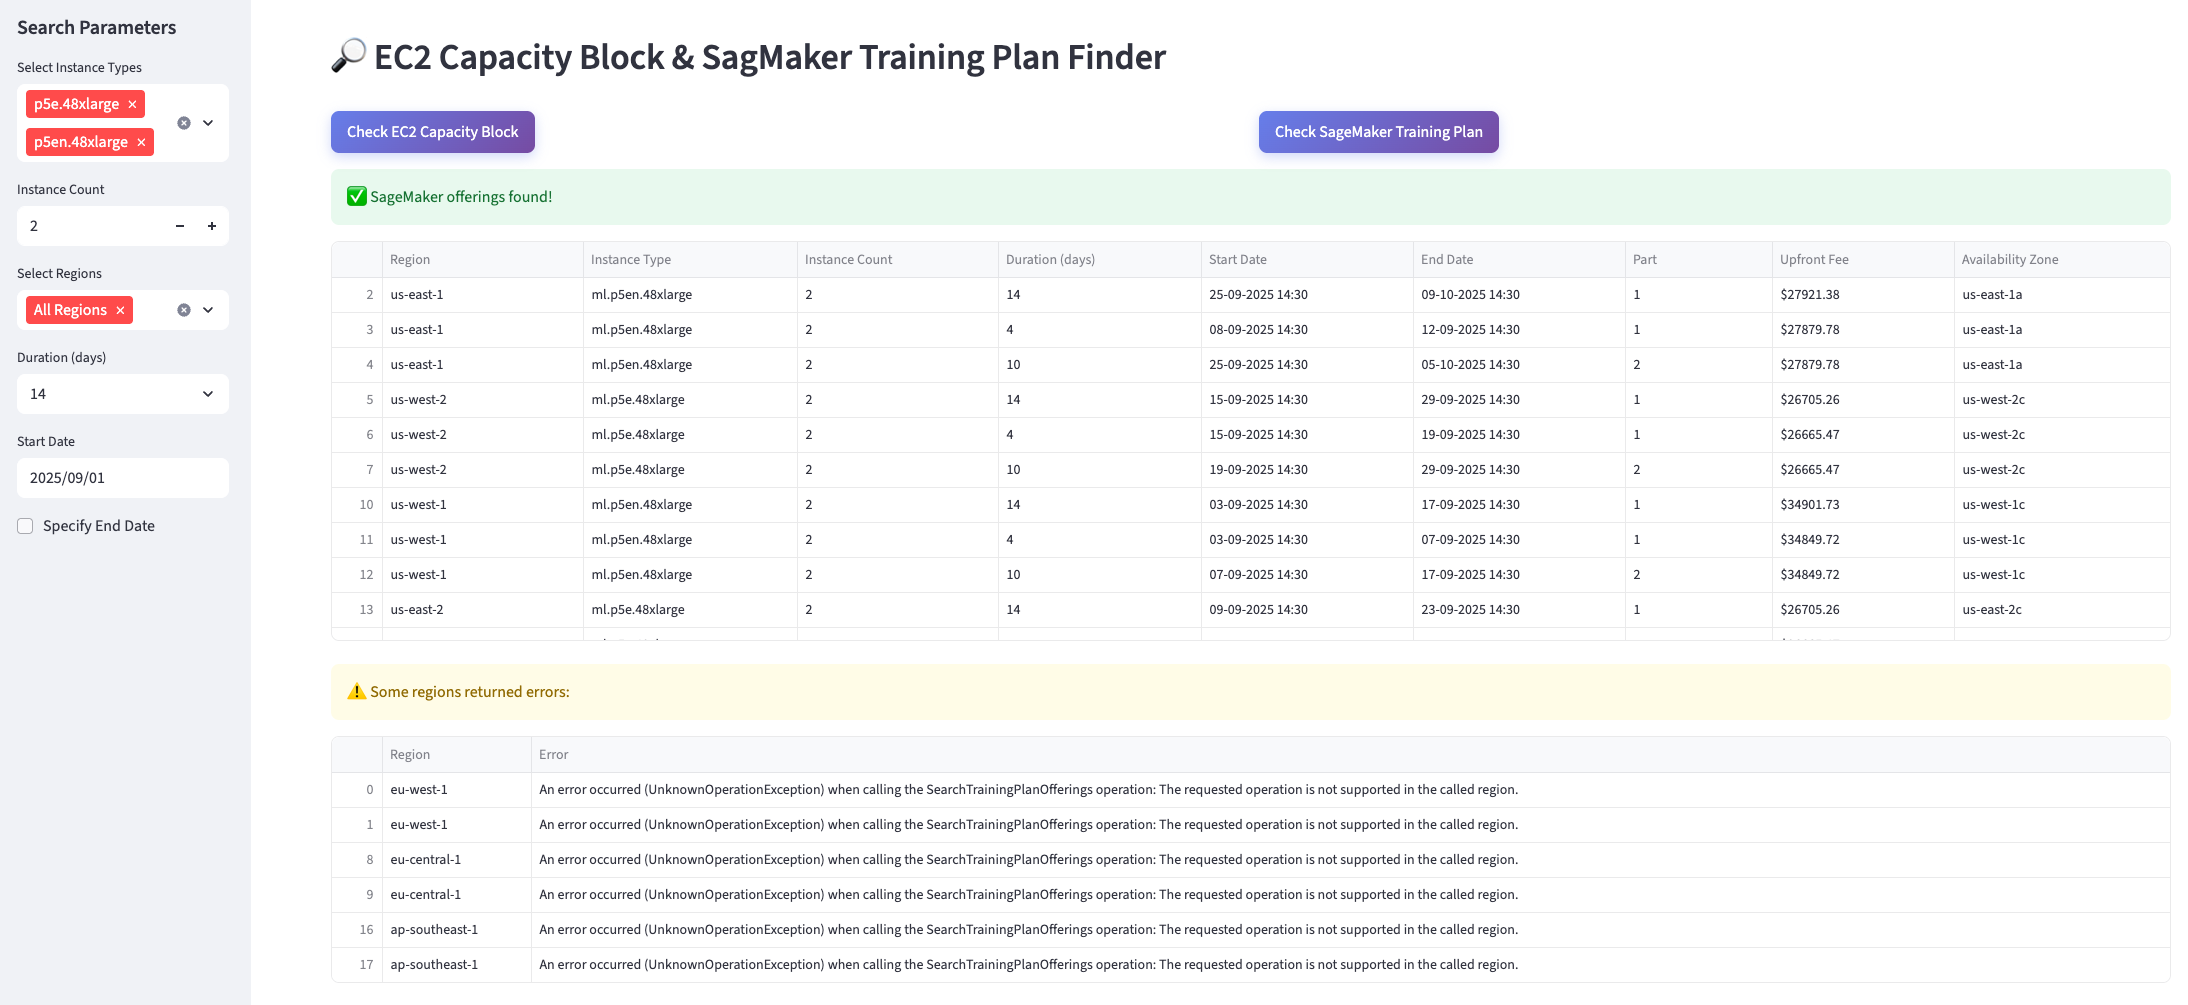
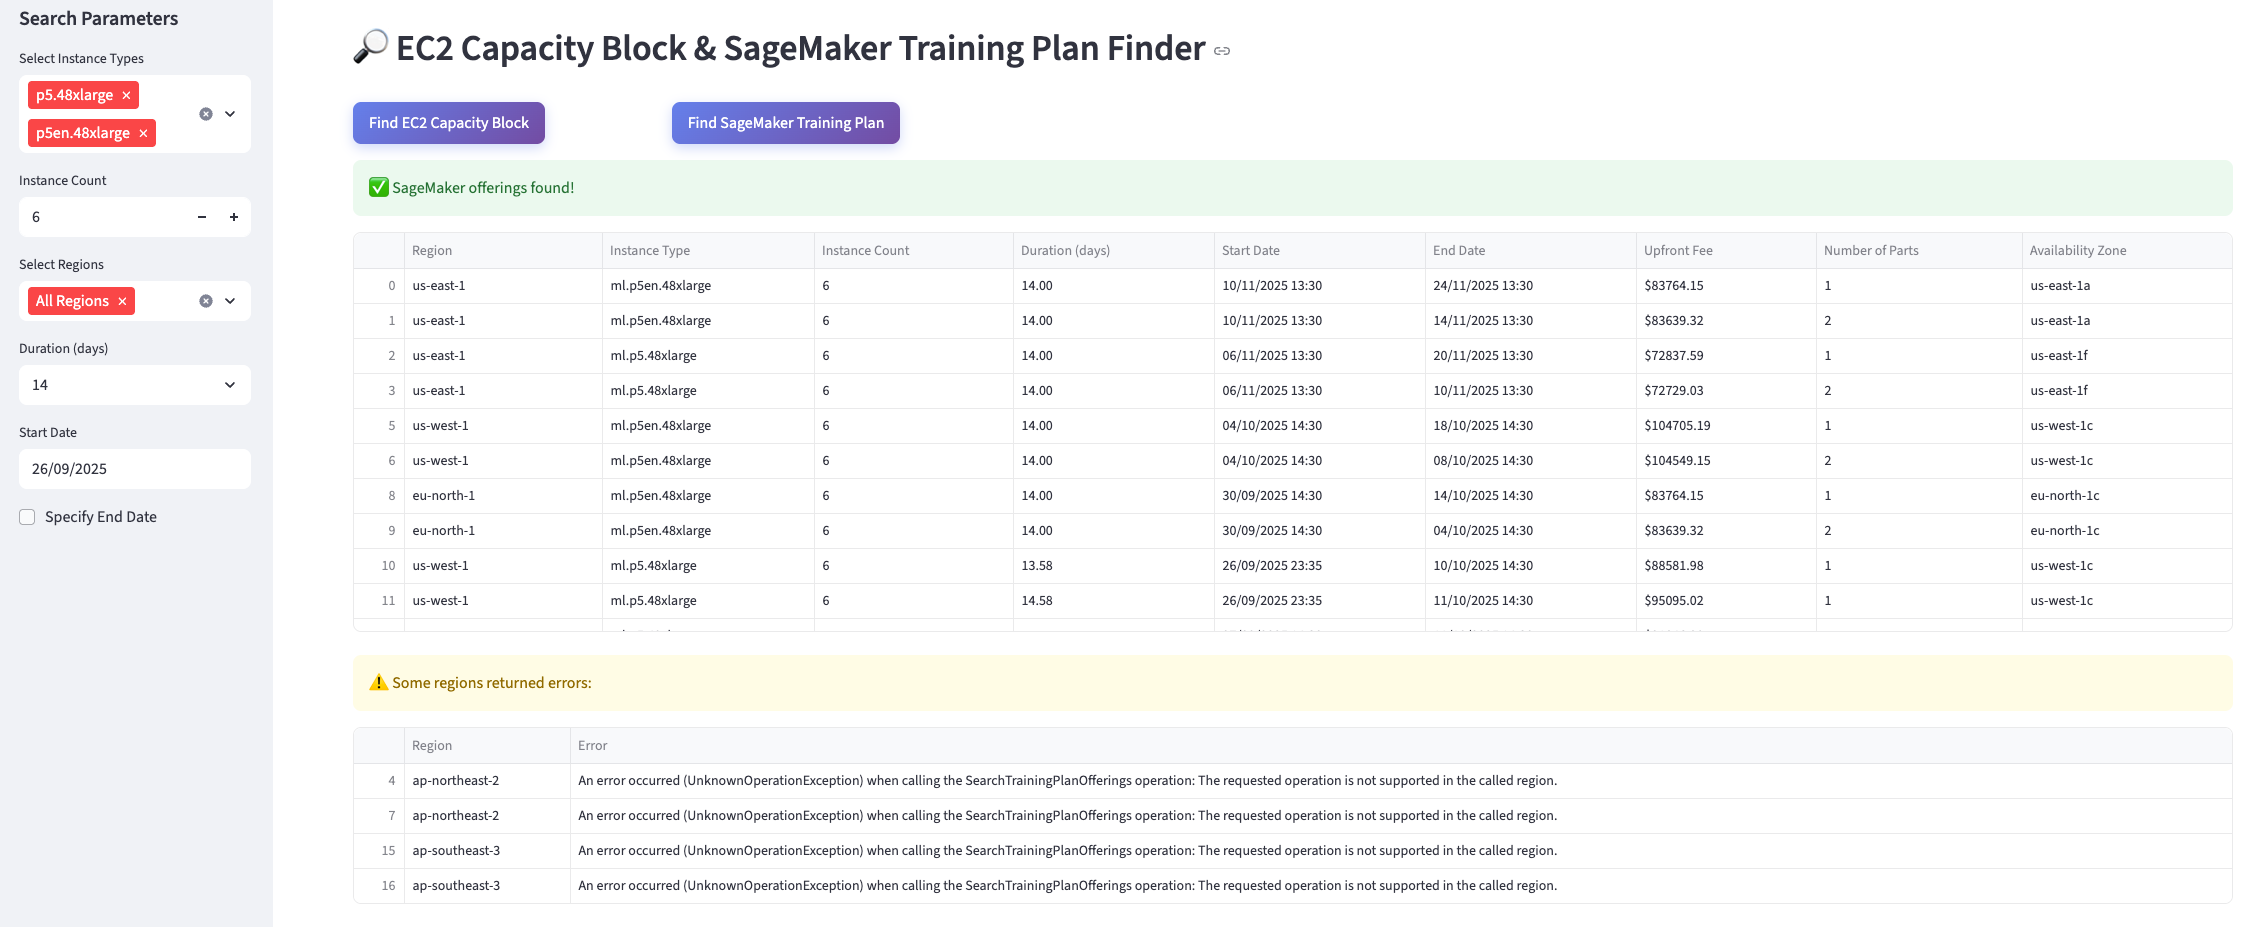
Improve UI and data display for capacity finder
- Fix typo: SagMaker → SageMaker in page title and header
- Standardize date format to DD/MM/YYYY for date inputs
- Remove unused regions (eu-west-1, eu-central-1, ap-southeast-1)
- Enhance data display with upfront fee, parts count, and availability zone
- Replace individual part listings with aggregated offering view
- Add API response logging for better debugging
- Update dataframe display to use 'stretch' width
- Update app screenshot to reflect UI changes

diff --git a/app.py b/app.py
@@ -6,8 +6,8 @@ import concurrent.futures
 import inspect
 
 # ----------------- Config -----------------
-st.set_page_config(page_title="EC2 Capacity Block & SagMaker Training Plan Finder", layout="wide")
-st.header("🔎 EC2 Capacity Block & SagMaker Training Plan Finder")
+st.set_page_config(page_title="EC2 Capacity Block & SageMaker Training Plan Finder", layout="wide")
+st.header("🔎 EC2 Capacity Block & SageMaker Training Plan Finder")
 
 # ----------------- Styling -----------------
 st.markdown("""
@@ -47,10 +47,10 @@ INSTANCE_TYPES = [
 AWS_REGIONS = [
     "us-east-1","us-east-2",
     "us-west-1","us-west-2",
-    "eu-north-1","eu-west-1","eu-west-2","eu-central-1",
+    "eu-north-1","eu-west-2",
     "ap-northeast-1","ap-northeast-2",
     "ap-south-1",
-    "ap-southeast-1","ap-southeast-2","ap-southeast-3", "ap-southeast-4",
+    "ap-southeast-2","ap-southeast-3", "ap-southeast-4",
     "sa-east-1"
 ]
 
@@ -99,14 +99,13 @@ region_options = ["All Regions"] + AWS_REGIONS
 selected_regions = st.sidebar.multiselect("Select Regions", region_options, default=["All Regions"])
 
 duration_days = st.sidebar.selectbox("Duration (days)", VALID_DURATIONS, index=6)
-start_date = st.sidebar.date_input("Start Date", datetime.today())
+start_date = st.sidebar.date_input("Start Date", datetime.today(), format="DD/MM/YYYY")
 use_end_date = st.sidebar.checkbox("Specify End Date", value=False)
-end_date = st.sidebar.date_input("End Date", datetime.today() + timedelta(days=14)) if use_end_date else None
+end_date = st.sidebar.date_input("End Date", datetime.today() + timedelta(days=14), format="DD/MM/YYYY") if use_end_date else None
 
 # ----------------- Validation -----------------
 if use_end_date and start_date > end_date:
     st.sidebar.error("Start date must be before end date.")
-
 
 # ----------------- AWS EC2 Scan -----------------
 def scan_region(region, itype, count, duration, fallback=False):
@@ -124,19 +123,26 @@ def scan_region(region, itype, count, duration, fallback=False):
         log_msg(f"EC2 params: {params}", region, itype)
 
         resp = ec2.describe_capacity_block_offerings(**params)
+        log_msg(f"EC2 API Response: {resp}", region, itype)
         offerings = resp.get("CapacityBlockOfferings", [])
         results = []
         for o in offerings:
             start_dt, end_dt = parse_iso_date(o["StartDate"]), parse_iso_date(o["EndDate"])
-            for i, part in enumerate(o.get("ReservedCapacityOfferings", [{}]) or [{}]):
-                results.append({
-                    "Region": region, "Instance Type": itype,
-                    "Instance Count": str(o.get("InstanceCount", 0)),
-                    "Duration (days)": str(o["CapacityBlockDurationHours"] // 24),
-                    "Start Date": start_dt.strftime("%d-%m-%Y %H:%M"),
-                    "End Date": end_dt.strftime("%d-%m-%Y %H:%M"),
-                    "Part": str(i+1)
-                })
+            upfront_fee = f"${o.get('UpfrontFee', '0')}"
+            duration_hours = o["CapacityBlockDurationHours"]
+            reserved_offerings = o.get("ReservedCapacityOfferings", [{}]) or [{}]
+            parts_count = len(reserved_offerings)
+            
+            results.append({
+                "Region": region, "Instance Type": itype,
+                "Instance Count": str(o.get("InstanceCount", 0)),
+                "Duration (days)": f"{duration_hours / 24:.2f}",
+                "Start Date": start_dt.strftime("%d/%m/%Y %H:%M"),
+                "End Date": end_dt.strftime("%d/%m/%Y %H:%M"),
+                "Upfront Fee": upfront_fee,
+                "Number of Parts": str(parts_count),
+                "Availability Zone": o.get("AvailabilityZone", "N/A")
+            })
         return results
     except Exception as e:
         return [{"Region": region, "Error": str(e)}]
@@ -157,19 +163,27 @@ def scan_sagemaker_region(region, itype, count, duration):
         log_msg(f"SageMaker params: {params}", region, itype)
 
         resp = sm.search_training_plan_offerings(**params)
+        log_msg(f"SageMaker API Response: {resp}", region, itype)
         offerings = resp.get("TrainingPlanOfferings", [])
         results = []
         for o in offerings:
-            for i, r in enumerate(o.get("ReservedCapacityOfferings", [])):
+            upfront_fee = f"${o.get('UpfrontFee','0')}"
+            reserved_offerings = o.get("ReservedCapacityOfferings", [])
+            parts_count = len(reserved_offerings)
+            duration_hours = o.get("DurationHours", 0)
+            
+            if reserved_offerings:
+                r = reserved_offerings[0]  # Use first offering for details
                 start_dt, end_dt = parse_iso_date(r.get("StartTime")), parse_iso_date(r.get("EndTime"))
+                instance_type_clean = r.get("InstanceType", itype).replace('ml.', '')
                 results.append({
                     "Region": region, "Instance Type": r.get("InstanceType", itype),
                     "Instance Count": str(r.get("InstanceCount", 0)),
-                    "Duration (days)": str(r.get("DurationHours", 0)//24),
-                    "Start Date": start_dt.strftime("%d-%m-%Y %H:%M") if start_dt else "N/A",
-                    "End Date": end_dt.strftime("%d-%m-%Y %H:%M") if end_dt else "N/A",
-                    "Part": str(i+1),
-                    "Upfront Fee": f"${o.get('UpfrontFee','0')}",
+                    "Duration (days)": f"{duration_hours / 24:.2f}",
+                    "Start Date": start_dt.strftime("%d/%m/%Y %H:%M") if start_dt else "N/A",
+                    "End Date": end_dt.strftime("%d/%m/%Y %H:%M") if end_dt else "N/A",
+                    "Upfront Fee": upfront_fee,
+                    "Number of Parts": str(parts_count),
                     "Availability Zone": r.get("AvailabilityZone","N/A")
                 })
         return results
@@ -196,7 +210,7 @@ if do_capacity:
     scan_regions = AWS_REGIONS if "All Regions" in selected_regions else selected_regions
     with st.spinner(f"Scanning {len(scan_regions)} region(s)..."):
         results = run_parallel(scan_region, scan_regions, selected_instance_types, instance_count, duration_days)
-        success, errors = process_results(results, ["Region","Instance Type","Instance Count","Duration (days)","Start Date","End Date","Part"])
+        success, errors = process_results(results, ["Region","Instance Type","Instance Count","Duration (days)","Start Date","End Date","Upfront Fee","Number of Parts","Availability Zone"])
         if success.empty:
             st.info("ℹ No capacity found. Retrying with reduced params...")
             reduced = run_parallel(scan_region, AWS_REGIONS, selected_instance_types, max(1,instance_count//2), max(1,duration_days//2))
@@ -208,22 +222,23 @@ if do_capacity:
                 st.warning("⚠ No offerings found even with reduced parameters.")
         else:
             st.success("✅ Capacity blocks found!")
-            st.dataframe(success, use_container_width=True)
+            st.dataframe(success, width='stretch')
         if not errors.empty:
             st.warning("⚠ Some regions returned errors:")
-            st.dataframe(errors, use_container_width=True)
+            st.dataframe(errors, width='stretch')
 
 # SageMaker training plan
 if do_sagemaker:
     scan_regions = AWS_REGIONS if "All Regions" in selected_regions else selected_regions
     with st.spinner(f"Scanning SageMaker in {len(scan_regions)} region(s)..."):
         results = run_parallel(scan_sagemaker_region, scan_regions, selected_instance_types, instance_count, duration_days)
-        success, errors = process_results(results, ["Region","Instance Type","Instance Count","Duration (days)","Start Date","End Date","Part","Upfront Fee","Availability Zone"])
+        success, errors = process_results(results, ["Region","Instance Type","Instance Count","Duration (days)","Start Date","End Date","Upfront Fee","Number of Parts","Availability Zone"])
         if success.empty:
             st.info("ℹ No SageMaker offerings found.")
         else:
             st.success("✅ SageMaker offerings found!")
-            st.dataframe(success, use_container_width=True)
+            st.dataframe(success, width='stretch')
         if not errors.empty:
             st.warning("⚠ Some regions returned errors:")
-            st.dataframe(errors, use_container_width=True)
+            st.dataframe(errors, width='stretch')
+
